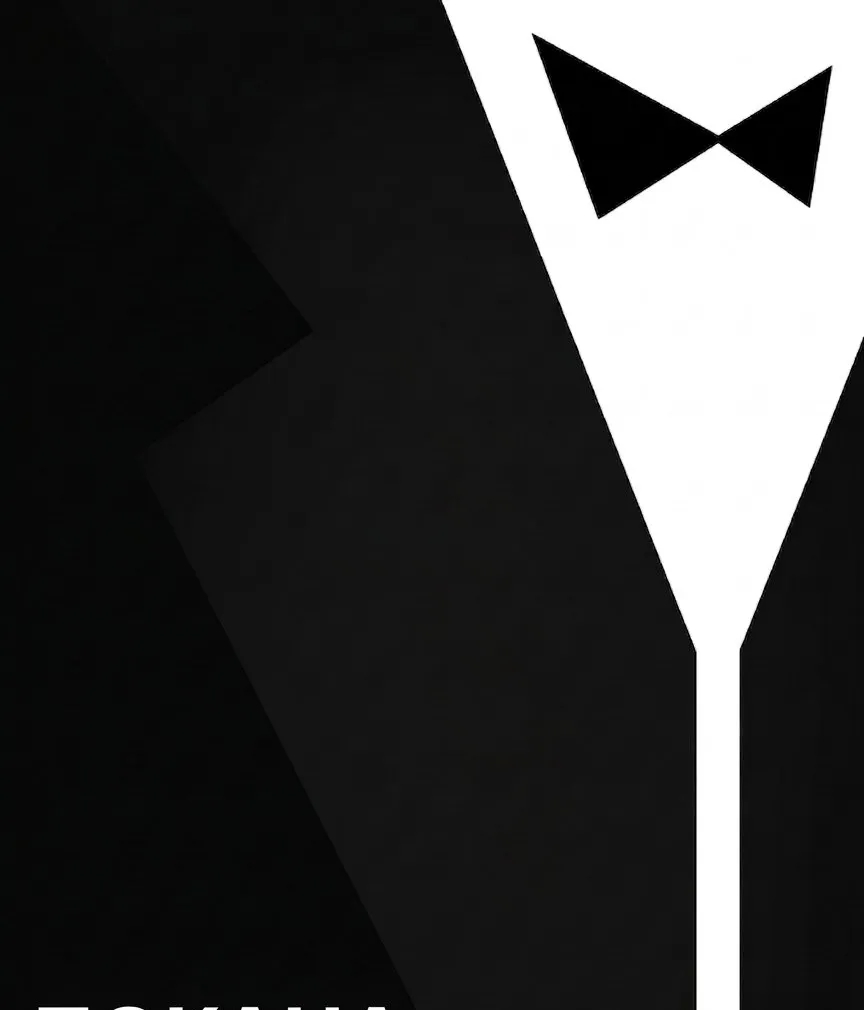
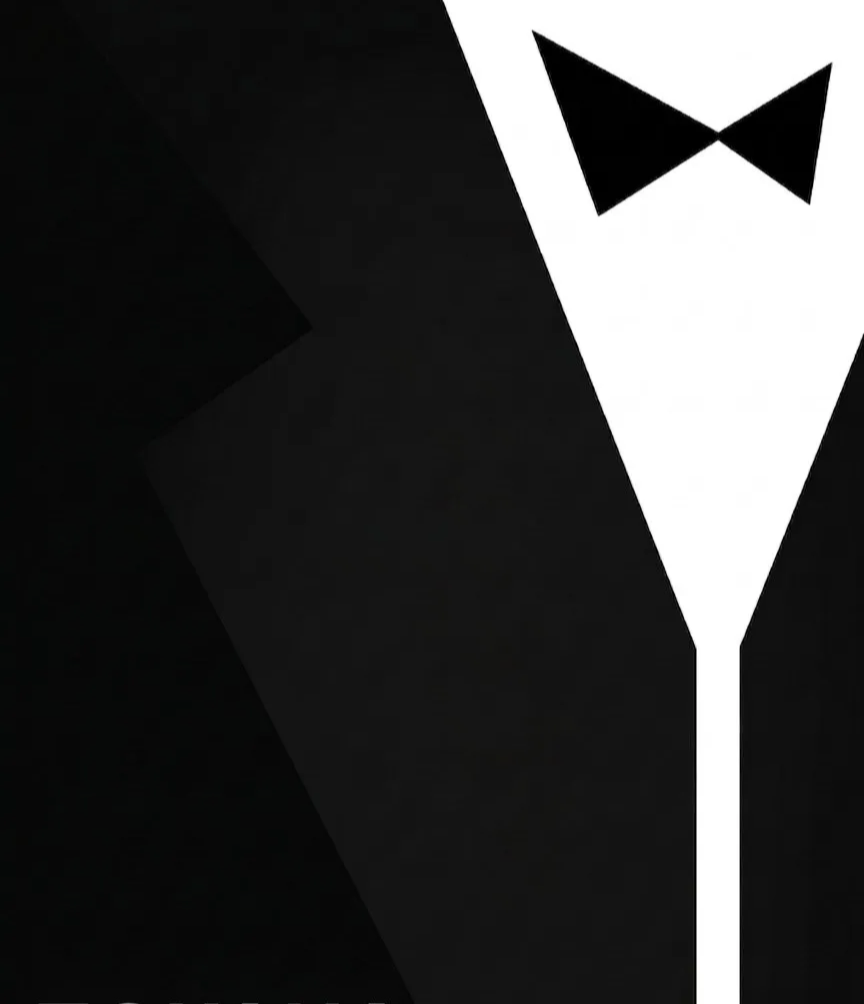
Replace CSS-constructed tuxedo with image-based hero section
Simplifies the hero section by replacing complex CSS animations and geometric shapes with a clean, image-based approach. Also darkens the ink color slightly and updates the decorative ornament to use an image instead of CSS-drawn elements.

diff --git a/src/app/globals.css b/src/app/globals.css
@@ -2,7 +2,7 @@
 @import "tailwindcss";
 
 :root {
-  --color-ink: #111111;
+  --color-ink: #080808;
   --color-cream: #faf9f6;
   --color-warm-gray: #8a8580;
   --color-gold: #c4a265;
@@ -47,250 +47,29 @@ body {
   scroll-snap-align: start;
 }
 
-/* Tuxedo constructed with CSS */
-.tuxedo {
-  position: absolute;
-  inset: 0;
-  display: flex;
-  justify-content: center;
-}
-
-.tuxedo-body {
-  position: relative;
-  width: 100%;
-  max-width: 600px;
-  height: 100%;
-}
-
-/* Shirt (white V behind the jacket) */
-.shirt {
-  position: absolute;
-  top: 18%;
-  left: 50%;
-  transform: translateX(-50%);
-  width: 0;
-  height: 0;
-  border-left: 120px solid transparent;
-  border-right: 120px solid transparent;
-  border-bottom: 600px solid #f5f5f0;
-  z-index: 1;
-  animation: shirtReveal 1.2s ease-out 0.3s both;
-}
-
-@keyframes shirtReveal {
-  from {
-    opacity: 0;
-    border-bottom-width: 0;
-  }
-  to {
-    opacity: 1;
-    border-bottom-width: 600px;
-  }
-}
-
-/* Left lapel */
-.lapel-left {
-  position: absolute;
-  top: 16%;
-  right: 50%;
-  width: 50%;
-  height: 84%;
-  background: #1a1a1a;
-  clip-path: polygon(100% 0, 100% 5%, 55% 100%, 0 100%, 0 0);
-  z-index: 2;
-  animation: lapelLeftSlide 1s ease-out 0.5s both;
-}
-
-@keyframes lapelLeftSlide {
-  from {
-    transform: translateX(-30px);
-    opacity: 0;
-  }
-  to {
-    transform: translateX(0);
-    opacity: 1;
-  }
-}
-
-/* Right lapel */
-.lapel-right {
-  position: absolute;
-  top: 16%;
-  left: 50%;
-  width: 50%;
-  height: 84%;
-  background: #1a1a1a;
-  clip-path: polygon(0 0, 0 5%, 45% 100%, 100% 100%, 100% 0);
-  z-index: 2;
-  animation: lapelRightSlide 1s ease-out 0.5s both;
-}
-
-@keyframes lapelRightSlide {
-  from {
-    transform: translateX(30px);
-    opacity: 0;
-  }
-  to {
-    transform: translateX(0);
-    opacity: 1;
-  }
-}
-
-/* Lapel fold lines (satin edge) */
-.lapel-left::after {
-  content: "";
-  position: absolute;
-  top: 0;
-  right: 0;
-  width: 3px;
-  height: 100%;
-  background: linear-gradient(
-    to bottom,
-    transparent,
-    rgba(255, 255, 255, 0.06) 10%,
-    rgba(255, 255, 255, 0.1) 50%,
-    rgba(255, 255, 255, 0.03)
-  );
-  transform-origin: top right;
-  transform: rotate(-7deg);
-}
-
-.lapel-right::after {
-  content: "";
-  position: absolute;
-  top: 0;
-  left: 0;
-  width: 3px;
-  height: 100%;
-  background: linear-gradient(
-    to bottom,
-    transparent,
-    rgba(255, 255, 255, 0.06) 10%,
-    rgba(255, 255, 255, 0.1) 50%,
-    rgba(255, 255, 255, 0.03)
-  );
-  transform-origin: top left;
-  transform: rotate(7deg);
-}
-
-/* Bow tie */
-.bowtie {
-  position: absolute;
-  top: 18%;
-  left: 50%;
-  transform: translateX(-50%);
-  z-index: 3;
-  animation: bowtieAppear 0.6s ease-out 1s both;
-}
-
-@keyframes bowtieAppear {
-  from {
-    transform: translateX(-50%) scale(0) rotate(-180deg);
-    opacity: 0;
-  }
-  to {
-    transform: translateX(-50%) scale(1) rotate(0deg);
-    opacity: 1;
-  }
-}
-
-.bowtie-left {
-  position: absolute;
-  right: 6px;
-  top: 50%;
-  transform: translateY(-50%);
-  width: 0;
-  height: 0;
-  border-top: 14px solid transparent;
-  border-bottom: 14px solid transparent;
-  border-right: 26px solid #1a1a1a;
-}
-
-.bowtie-right {
-  position: absolute;
-  left: 6px;
-  top: 50%;
-  transform: translateY(-50%);
-  width: 0;
-  height: 0;
-  border-top: 14px solid transparent;
-  border-bottom: 14px solid transparent;
-  border-left: 26px solid #1a1a1a;
-}
-
-.bowtie-knot {
-  position: absolute;
-  left: 50%;
-  top: 50%;
-  transform: translate(-50%, -50%);
-  width: 12px;
-  height: 10px;
-  background: #222;
-  border-radius: 2px;
-  z-index: 1;
-}
-
-/* Shirt buttons */
-.shirt-buttons {
-  position: absolute;
-  top: 24%;
-  left: 50%;
-  transform: translateX(-50%);
-  z-index: 2;
-  display: flex;
-  flex-direction: column;
-  gap: 42px;
-  animation: buttonsAppear 0.8s ease-out 1.2s both;
-}
-
-@keyframes buttonsAppear {
-  from {
-    opacity: 0;
-  }
-  to {
-    opacity: 1;
-  }
-}
-
-.shirt-button {
-  width: 6px;
-  height: 6px;
-  border-radius: 50%;
-  background: #e8e5df;
-  border: 1px solid #d5d0c8;
-}
-
-/* Pocket square */
-.pocket-square {
-  position: absolute;
-  top: 36%;
-  left: calc(50% + 58px);
-  width: 24px;
-  height: 18px;
-  z-index: 3;
-  animation: pocketAppear 0.5s ease-out 1.4s both;
-}
-
-@keyframes pocketAppear {
-  from {
-    opacity: 0;
-    transform: translateY(10px);
-  }
-  to {
-    opacity: 1;
-    transform: translateY(0);
-  }
-}
-
-.pocket-square::before {
-  content: "";
+/* Hero tuxedo image */
+.hero-image {
   position: absolute;
   bottom: 0;
-  left: 0;
-  width: 100%;
+  left: 50%;
+  transform: translateX(-50%);
+  width: auto;
   height: 100%;
-  background: white;
-  clip-path: polygon(15% 40%, 40% 0%, 60% 30%, 85% 0%, 85% 100%, 15% 100%);
+  max-width: none;
+  object-fit: contain;
+  z-index: 1;
+  animation: heroImageReveal 1.2s ease-out 0.3s both;
+}
+
+@keyframes heroImageReveal {
+  from {
+    opacity: 0;
+    transform: translateX(-50%) scale(1.05);
+  }
+  to {
+    opacity: 1;
+    transform: translateX(-50%) scale(1);
+  }
 }
 
 /* Hero text overlay */
@@ -411,27 +190,12 @@ body {
   padding: 0 16px;
 }
 
-/* Decorative line */
-.ornament {
-  display: flex;
-  align-items: center;
-  justify-content: center;
-  gap: 16px;
-  margin-bottom: 48px;
-  animation: ornamentFade 1s ease-out both;
-}
-
-.ornament-line {
-  width: 60px;
-  height: 1px;
-  background: var(--color-gold);
-}
-
-.ornament-diamond {
-  width: 8px;
-  height: 8px;
-  background: var(--color-gold);
-  transform: rotate(45deg);
+/* Details bowtie image */
+.details-bowtie {
+  width: 180px;
+  height: auto;
+  margin: 0 auto 48px;
+  object-fit: contain;
 }
 
 .details-title {
@@ -579,25 +343,8 @@ body {
 
 /* Mobile adjustments */
 @media (max-width: 480px) {
-  .shirt {
-    border-left-width: 80px;
-    border-right-width: 80px;
-    border-bottom-width: 500px;
-  }
-
-  @keyframes shirtReveal {
-    from {
-      opacity: 0;
-      border-bottom-width: 0;
-    }
-    to {
-      opacity: 1;
-      border-bottom-width: 500px;
-    }
-  }
-
-  .pocket-square {
-    left: calc(50% + 40px);
+  .hero-image {
+    height: 100%;
   }
 
   .hero-text {
@@ -606,5 +353,9 @@ body {
 
   .details-section {
     padding: 60px 20px;
+  }
+
+  .details-bowtie {
+    width: 140px;
   }
 }

diff --git a/src/app/page.tsx b/src/app/page.tsx
@@ -36,7 +36,7 @@ export default function Home() {
           src="/tuxedo-hero.png"
           alt=""
           width={864}
-          height={1010}
+          height={1004}
           className="hero-image"
           priority
         />
